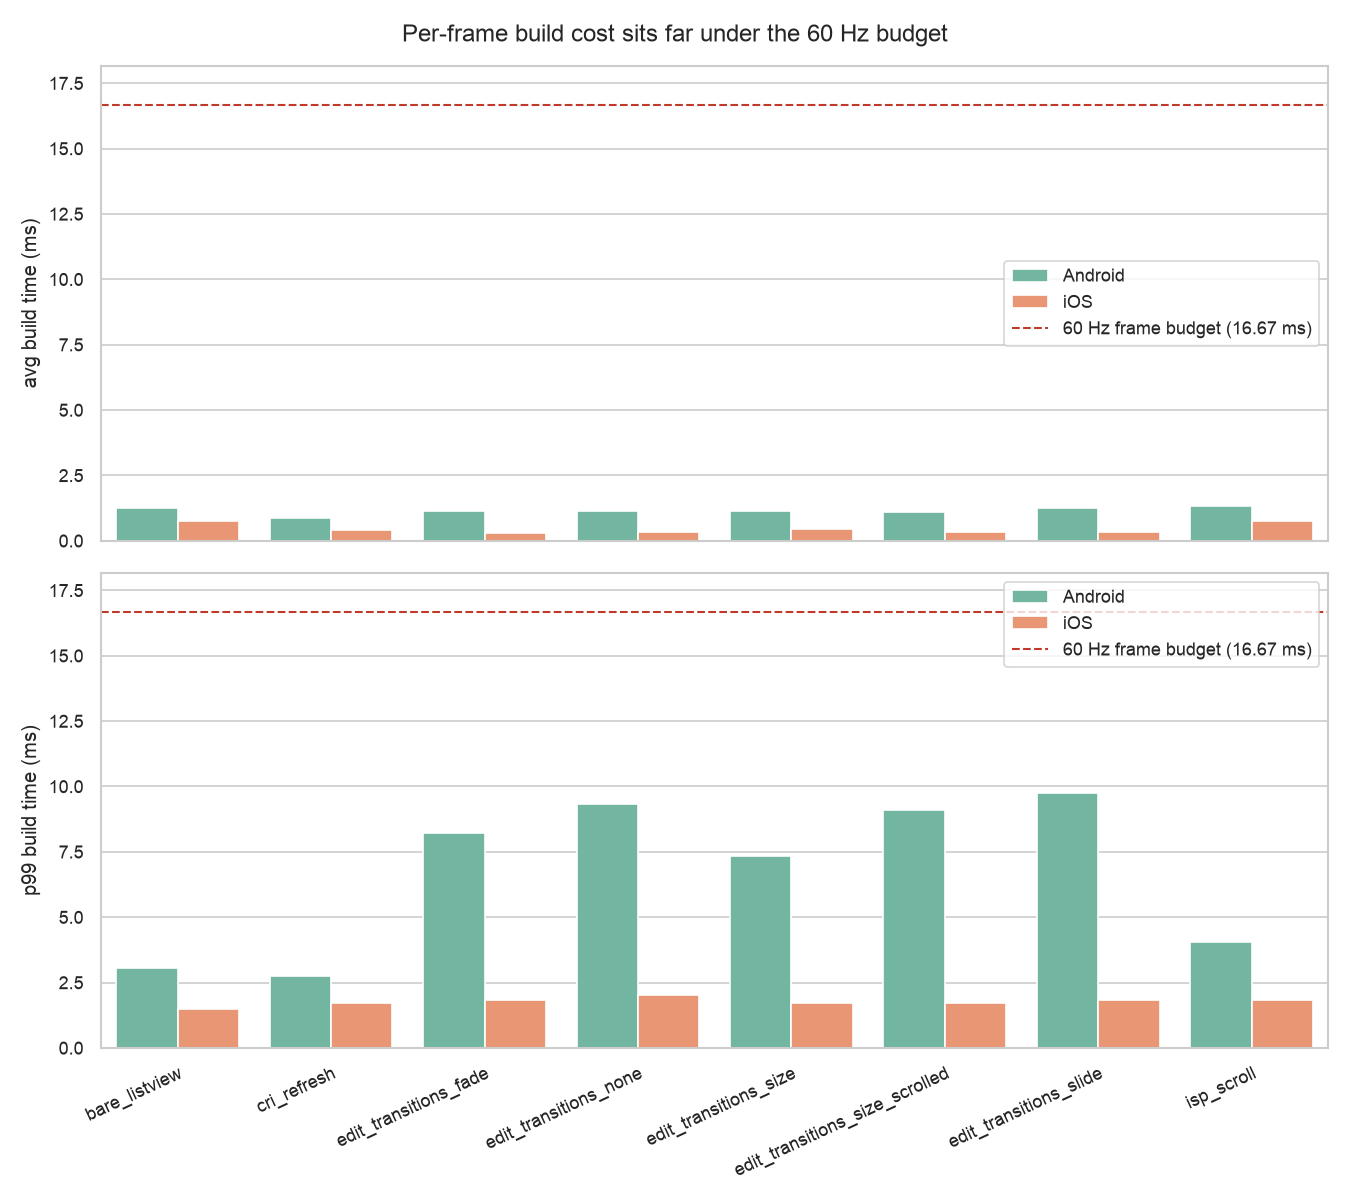
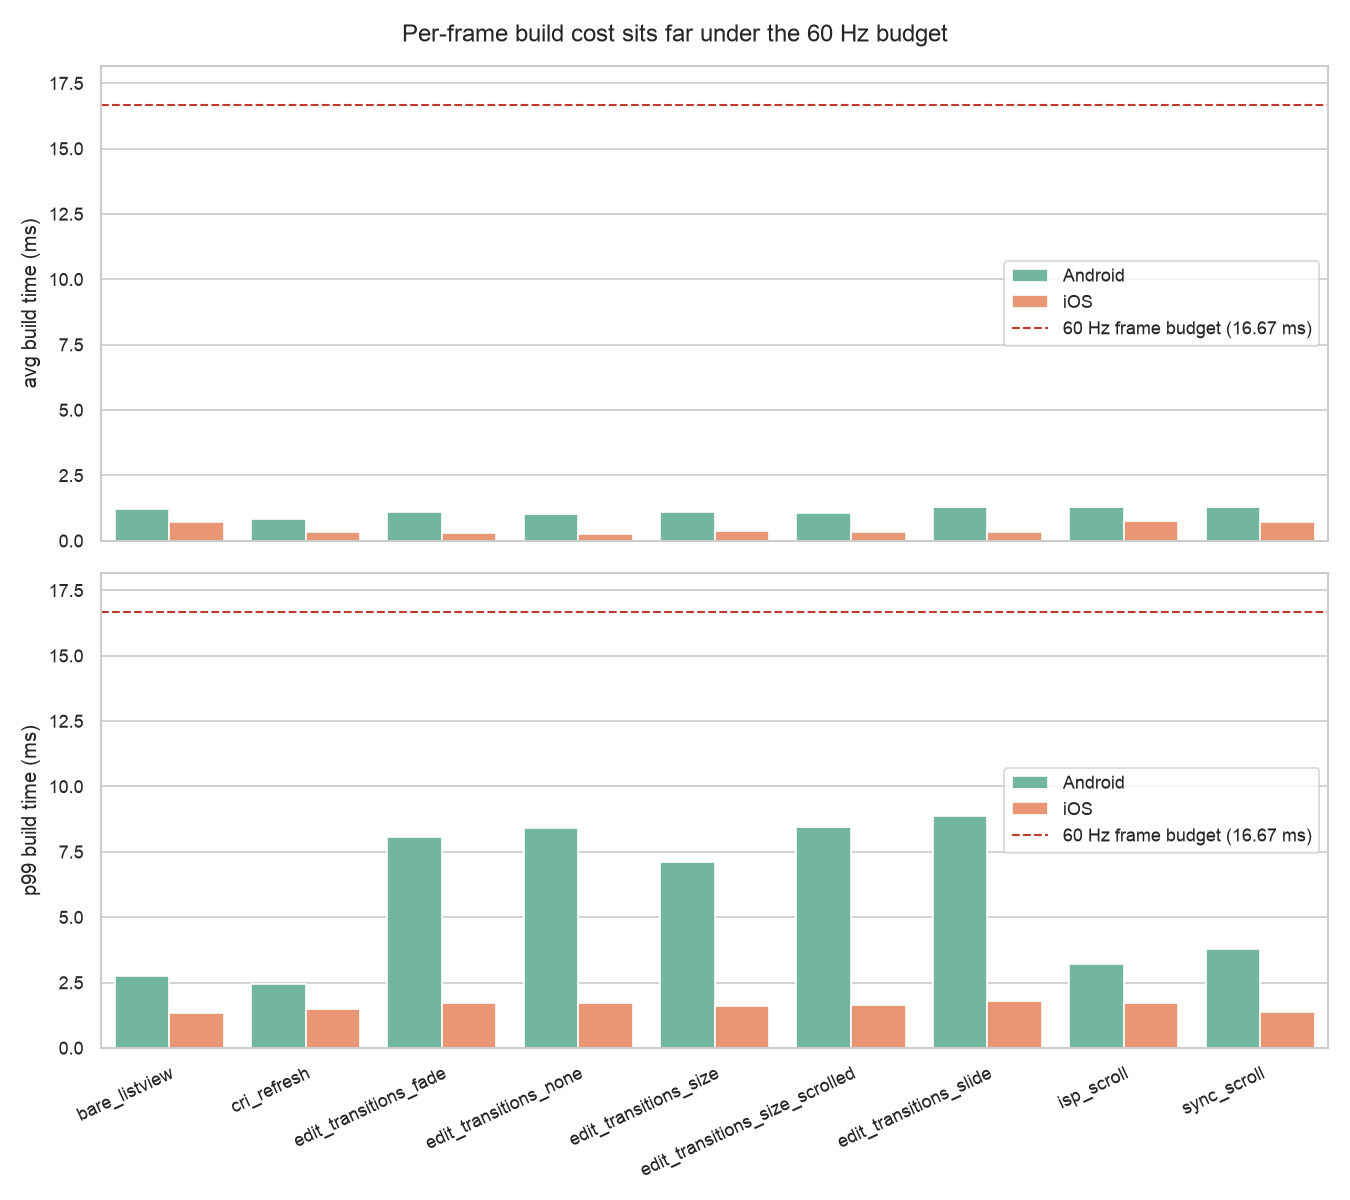
[#110] chore: bench report with sync_scroll

Changed region(s): [[0.0933, 0.6475, 0.9956, 0.9867], [0.1244, 0.4008, 0.9956, 0.555], [0.0622, 0.8942, 0.1244, 0.925]]

diff --git a/benchmark/reports/SUMMARY.md b/benchmark/reports/SUMMARY.md
@@ -1,6 +1,6 @@
 # Benchmark results
 
-Captured **2026-10-22** against `2.0.1` at `19e058b` on Dart SDK 3.13.5, UI scenarios on Android, iOS. N=10 iterations.
+Captured **2026-10-29** against `2.0.1` at `0b5980d` on Dart SDK 3.13.7, UI scenarios on Android, iOS. N=10 iterations.
 
 > Per-device measurements, reflecting each device's CPU, GPU, GC, OS scheduler and thermal state. Yours WILL differ, so capture your own baseline before measuring a delta.
 
@@ -10,14 +10,14 @@ The headline finding. list_smith invokes your observer *synchronously* on the pa
 
 | Platform | Observer delay (ms) | Median render latency (ms) | Render minus observer (ms) | N |
 |---|---:|---:|---:|---:|
-| Android | 0 | 18.5 | 18.5 | 10 |
-| Android | 25 | 54.1 | 29.1 | 10 |
-| Android | 50 | 70.4 | 20.4 | 10 |
-| Android | 100 | 128.5 | 28.5 | 10 |
-| iOS | 0 | 17.3 | 17.3 | 10 |
-| iOS | 25 | 50.8 | 25.8 | 10 |
-| iOS | 50 | 67.2 | 17.2 | 10 |
-| iOS | 100 | 117.9 | 17.9 | 10 |
+| Android | 0 | 18.8 | 18.8 | 10 |
+| Android | 25 | 54.3 | 29.3 | 10 |
+| Android | 50 | 70.5 | 20.5 | 10 |
+| Android | 100 | 121.6 | 21.6 | 10 |
+| iOS | 0 | 18.0 | 18.0 | 10 |
+| iOS | 25 | 50.7 | 25.7 | 10 |
+| iOS | 50 | 67.1 | 17.1 | 10 |
+| iOS | 100 | 117.7 | 17.7 | 10 |
 
 
 ![Render latency vs observer delay](observer_latency.png)
@@ -28,9 +28,9 @@ From the `sync_search_scaling` micro (AOT, `benchmark_harness`). `SyncListView` 
 
 | List size | N | Median (us) | IQR (us) | Median (ms) |
 |---:|---:|---:|---:|---:|
-| 1,000 | 10 | 378.72 | 11.39 | 0.38 |
-| 10,000 | 10 | 4,011 | 203.34 | 4.01 |
-| 100,000 | 10 | 41,868 | 656.10 | 41.87 |
+| 1,000 | 10 | 373.21 | 9.49 | 0.37 |
+| 10,000 | 10 | 3,973 | 87.60 | 3.97 |
+| 100,000 | 10 | 41,447 | 1,020 | 41.45 |
 
 
 ![Sync-search scaling](sync_search_scaling.png)
@@ -41,9 +41,9 @@ From the `bucket_by_group_scaling` micro (AOT, `benchmark_harness`). Sync groupi
 
 | List size | N | Median (us) | IQR (us) | Median (ms) |
 |---:|---:|---:|---:|---:|
-| 1,000 | 10 | 235.84 | 9.02 | 0.24 |
-| 10,000 | 10 | 2,440 | 69.48 | 2.44 |
-| 100,000 | 10 | 27,377 | 829.87 | 27.38 |
+| 1,000 | 10 | 240.21 | 8.70 | 0.24 |
+| 10,000 | 10 | 2,464 | 155.17 | 2.46 |
+| 100,000 | 10 | 27,204 | 1,211 | 27.20 |
 
 
 ![Sync grouping scaling](bucket_by_group_scaling.png)
@@ -54,9 +54,9 @@ From the `dedup_scaling` micro (AOT, `benchmark_harness`). The async list de-dup
 
 | Loaded items | N | Median (us) | IQR (us) | Median (ms) |
 |---:|---:|---:|---:|---:|
-| 1,000 | 10 | 300.84 | 11.65 | 0.30 |
-| 10,000 | 10 | 3,313 | 91.06 | 3.31 |
-| 100,000 | 10 | 38,890 | 863.38 | 38.89 |
+| 1,000 | 10 | 290.75 | 5.18 | 0.29 |
+| 10,000 | 10 | 3,241 | 67.21 | 3.24 |
+| 100,000 | 10 | 38,040 | 871.93 | 38.04 |
 
 
 ![De-dup scaling](dedup_scaling.png)
@@ -68,32 +68,34 @@ Confirms the bookkeeping costs ~nothing. `observer_dispatch` is one no-op observ
 | Micro | Metric | Median (us) |
 |---|---|---:|
 | `observer_dispatch` | us / dispatch | 0.011 |
-| `wrapping_overhead` (1 page) | us / key | 0.167 |
-| `wrapping_overhead` (10 pages) | us / key | 0.168 |
-| `wrapping_overhead` (100 pages) | us / key | 0.168 |
+| `wrapping_overhead` (1 page) | us / key | 0.165 |
+| `wrapping_overhead` (10 pages) | us / key | 0.165 |
+| `wrapping_overhead` (100 pages) | us / key | 0.166 |
 
 ## UI scenarios: per-frame build cost
 
-From the profile-mode `integration_test` scenarios, real frames on one device per platform. `avg`, `worst` and `p99 build` are the UI-thread build cost per frame, which is where list_smith's code runs, and `missed` counts frames over the 16.67ms budget. `isp_scroll` against `bare_listview` (same items and scroll, no list_smith) is the attribution: that small delta is what list_smith adds to a plain list. `edit_transitions_none` makes the same edits as `_size`, `_fade` and `_slide` with no transition, so the gap is what animating them adds. `_size_scrolled` makes `_size`'s edits just above the screen, where the rows on it are held still.
+From the profile-mode `integration_test` scenarios, real frames on one device per platform. `avg`, `worst` and `p99 build` are the UI-thread build cost per frame, which is where list_smith's code runs, and `missed` counts frames over the 16.67ms budget. `isp_scroll` against `bare_listview` (same items and scroll, no list_smith) is the attribution: that small delta is what list_smith adds to a plain list. `sync_scroll` is the same scroll over a `ListSmith.sync` list with ids. `edit_transitions_none` makes the same edits as `_size`, `_fade` and `_slide` with no transition, so the gap is what animating them adds. `_size_scrolled` makes `_size`'s edits just above the screen, where the rows on it are held still.
 
 | Scenario | Platform | Frames | Avg build (ms) | Worst build (ms) | p99 build (ms) | Missed |
 |---|---|---:|---:|---:|---:|---:|
-| `bare_listview` | Android | 607 | 1.27 | 5.50 | 3.05 | 0 |
-| `bare_listview` | iOS | 610 | 0.75 | 1.62 | 1.47 | 0 |
-| `cri_refresh` | Android | 850 | 0.88 | 5.96 | 2.76 | 0 |
-| `cri_refresh` | iOS | 849 | 0.40 | 1.96 | 1.71 | 0 |
-| `edit_transitions_fade` | Android | 500 | 1.12 | 9.53 | 8.21 | 0 |
-| `edit_transitions_fade` | iOS | 500 | 0.30 | 1.87 | 1.82 | 0 |
-| `edit_transitions_none` | Android | 500 | 1.14 | 13.18 | 9.34 | 0 |
-| `edit_transitions_none` | iOS | 500 | 0.32 | 3.01 | 2.03 | 0 |
-| `edit_transitions_size` | Android | 500 | 1.14 | 9.17 | 7.35 | 0 |
-| `edit_transitions_size` | iOS | 500 | 0.44 | 1.97 | 1.72 | 0 |
-| `edit_transitions_size_scrolled` | Android | 500 | 1.08 | 10.01 | 9.08 | 0 |
-| `edit_transitions_size_scrolled` | iOS | 500 | 0.34 | 1.83 | 1.71 | 0 |
-| `edit_transitions_slide` | Android | 500 | 1.26 | 10.70 | 9.73 | 0 |
-| `edit_transitions_slide` | iOS | 500 | 0.33 | 1.86 | 1.82 | 0 |
-| `isp_scroll` | Android | 610 | 1.32 | 7.28 | 4.04 | 0 |
-| `isp_scroll` | iOS | 610 | 0.76 | 2.17 | 1.83 | 0 |
+| `bare_listview` | Android | 610 | 1.22 | 4.79 | 2.76 | 0 |
+| `bare_listview` | iOS | 610 | 0.71 | 1.58 | 1.34 | 0 |
+| `cri_refresh` | Android | 849 | 0.84 | 4.70 | 2.44 | 0 |
+| `cri_refresh` | iOS | 850 | 0.35 | 1.83 | 1.47 | 0 |
+| `edit_transitions_fade` | Android | 500 | 1.11 | 9.36 | 8.08 | 0 |
+| `edit_transitions_fade` | iOS | 500 | 0.29 | 1.79 | 1.71 | 0 |
+| `edit_transitions_none` | Android | 500 | 1.04 | 13.98 | 8.43 | 0 |
+| `edit_transitions_none` | iOS | 500 | 0.25 | 2.92 | 1.73 | 0 |
+| `edit_transitions_size` | Android | 500 | 1.10 | 9.11 | 7.09 | 0 |
+| `edit_transitions_size` | iOS | 500 | 0.38 | 1.90 | 1.59 | 0 |
+| `edit_transitions_size_scrolled` | Android | 500 | 1.07 | 9.83 | 8.44 | 0 |
+| `edit_transitions_size_scrolled` | iOS | 500 | 0.34 | 1.69 | 1.63 | 0 |
+| `edit_transitions_slide` | Android | 500 | 1.30 | 9.95 | 8.87 | 0 |
+| `edit_transitions_slide` | iOS | 500 | 0.32 | 1.93 | 1.78 | 0 |
+| `isp_scroll` | Android | 610 | 1.29 | 4.75 | 3.21 | 0 |
+| `isp_scroll` | iOS | 610 | 0.76 | 2.38 | 1.70 | 0 |
+| `sync_scroll` | Android | 610 | 1.27 | 5.39 | 3.79 | 0 |
+| `sync_scroll` | iOS | 610 | 0.72 | 2.84 | 1.36 | 0 |
 
 
 ![Per-frame build cost](frame_costs.png)
@@ -104,22 +106,24 @@ The same frames on the raster thread, which draws what the build produced. `miss
 
 | Scenario | Platform | Frames | Avg raster (ms) | Worst raster (ms) | p99 raster (ms) | Missed |
 |---|---|---:|---:|---:|---:|---:|
-| `bare_listview` | Android | 607 | 2.45 | 5.95 | 3.60 | 0 |
-| `bare_listview` | iOS | 610 | 0.66 | 1.33 | 1.23 | 0 |
-| `cri_refresh` | Android | 850 | 2.50 | 8.81 | 3.47 | 0 |
-| `cri_refresh` | iOS | 849 | 0.71 | 64.88 | 0.83 | 1 |
-| `edit_transitions_fade` | Android | 500 | 2.75 | 9.11 | 4.84 | 0 |
-| `edit_transitions_fade` | iOS | 500 | 0.74 | 58.04 | 0.97 | 1 |
-| `edit_transitions_none` | Android | 500 | 2.45 | 7.47 | 3.62 | 0 |
-| `edit_transitions_none` | iOS | 500 | 0.72 | 1.38 | 1.20 | 0 |
-| `edit_transitions_size` | Android | 500 | 2.70 | 12.49 | 4.04 | 0 |
-| `edit_transitions_size` | iOS | 500 | 0.67 | 0.90 | 0.83 | 0 |
-| `edit_transitions_size_scrolled` | Android | 500 | 2.66 | 5.45 | 3.59 | 0 |
-| `edit_transitions_size_scrolled` | iOS | 500 | 0.57 | 1.01 | 0.70 | 0 |
-| `edit_transitions_slide` | Android | 500 | 2.61 | 5.27 | 4.05 | 0 |
-| `edit_transitions_slide` | iOS | 500 | 0.60 | 2.04 | 1.12 | 0 |
-| `isp_scroll` | Android | 610 | 2.47 | 6.15 | 3.43 | 0 |
-| `isp_scroll` | iOS | 610 | 0.60 | 1.19 | 1.05 | 0 |
+| `bare_listview` | Android | 610 | 2.38 | 6.50 | 3.16 | 0 |
+| `bare_listview` | iOS | 610 | 0.62 | 1.54 | 1.07 | 0 |
+| `cri_refresh` | Android | 849 | 2.44 | 8.59 | 3.62 | 0 |
+| `cri_refresh` | iOS | 850 | 0.55 | 3.47 | 0.71 | 0 |
+| `edit_transitions_fade` | Android | 500 | 2.71 | 8.58 | 4.73 | 0 |
+| `edit_transitions_fade` | iOS | 500 | 0.62 | 2.19 | 0.91 | 0 |
+| `edit_transitions_none` | Android | 500 | 2.43 | 8.40 | 3.58 | 0 |
+| `edit_transitions_none` | iOS | 500 | 0.57 | 1.57 | 0.97 | 0 |
+| `edit_transitions_size` | Android | 500 | 2.48 | 5.80 | 3.73 | 0 |
+| `edit_transitions_size` | iOS | 500 | 0.56 | 0.81 | 0.70 | 0 |
+| `edit_transitions_size_scrolled` | Android | 500 | 2.74 | 8.13 | 3.92 | 0 |
+| `edit_transitions_size_scrolled` | iOS | 500 | 0.56 | 0.98 | 0.70 | 0 |
+| `edit_transitions_slide` | Android | 500 | 2.71 | 6.71 | 4.05 | 0 |
+| `edit_transitions_slide` | iOS | 500 | 0.59 | 2.09 | 1.12 | 0 |
+| `isp_scroll` | Android | 610 | 2.48 | 6.35 | 3.56 | 0 |
+| `isp_scroll` | iOS | 610 | 0.62 | 1.32 | 1.16 | 0 |
+| `sync_scroll` | Android | 610 | 2.56 | 6.64 | 4.44 | 0 |
+| `sync_scroll` | iOS | 610 | 0.61 | 1.29 | 1.09 | 0 |
 
 
 ![Per-frame raster cost](frame_raster_costs.png)
